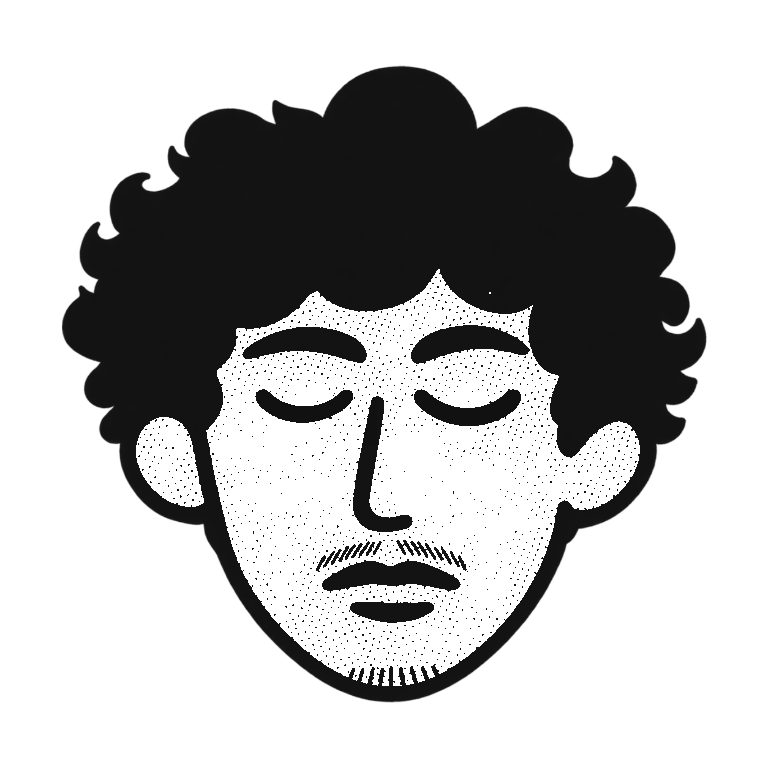
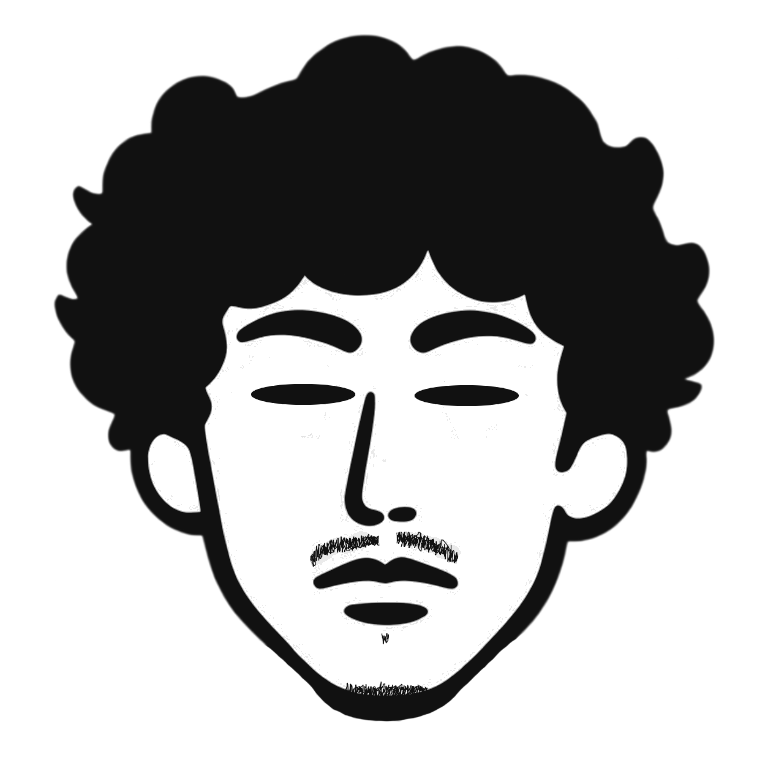
a

Changed region(s): [[0.125, 0.3125, 0.9375, 0.9375], [0.0625, 0.0312, 0.875, 0.5312]]

diff --git a/index.html b/index.html
@@ -4,13 +4,13 @@
     <meta charset="utf-8">
     <meta name="viewport" content="width=device-width, initial-scale=1">
     <title>Ramiro Borace | Portfolio</title>
-    <link rel="icon" type="image/svg+xml" href="assets/favicon.svg?v=monogram23-v2">
+    <link rel="icon" type="image/svg+xml" href="assets/favicon.svg?v=monogram23-v3">
     <link rel="preconnect" href="https://fonts.googleapis.com">
     <link rel="preconnect" href="https://fonts.gstatic.com" crossorigin>
     <link href="https://fonts.googleapis.com/css2?family=Inter+Tight:wght@400;500;600;700;800&display=swap" rel="stylesheet">
     <link rel="preload" href="assets/models/ramiro.glb" as="fetch" crossorigin="anonymous">
     <script id="model-viewer-library" type="module" src="https://ajax.googleapis.com/ajax/libs/model-viewer/4.0.0/model-viewer.min.js"></script>
-    <link rel="stylesheet" href="style.css?v=index-paper-aligned-v84">
+    <link rel="stylesheet" href="style.css?v=index-paper-aligned-v85">
   </head>
   <body>
     <header id="bar" class="site-header">
@@ -60,7 +60,7 @@
             <div class="hero-kicker">
               <span>Ramiro Borace</span>
             </div>
-            <h1 class="hero-wordmark" aria-label="Portfolio">Portf<span class="hero-notion" aria-hidden="true"><img class="hero-notion-open" src="assets/hero/yo-notion-open.png" alt=""><img class="hero-notion-blink" src="assets/hero/yo-notion-blink.png" alt=""></span>lio</h1>
+            <h1 class="hero-wordmark" aria-label="Portfolio">Portf<span class="hero-notion" aria-hidden="true"><img class="hero-notion-open" src="assets/hero/yo-notion-open.png?v=notion-new-1" alt=""><img class="hero-notion-blink" src="assets/hero/yo-notion-blink.png?v=notion-new-1" alt=""></span>lio</h1>
           </div>
         </div>
       </section>
@@ -119,7 +119,7 @@
               <div class="project-info">
                 <p class="project-type">2026</p>
                 <h3>Junio con Títeres<span class="project-category">Cobertura</span></h3>
-                <p class="project-role">Cámara</p>
+                <p class="project-role">Operador de cámara y editor</p>
                 <span class="project-link muted">No disponible</span>
                 <span class="project-number">03 / 07</span>
               </div>
@@ -137,7 +137,7 @@
               <div class="project-info">
                 <p class="project-type">2026</p>
                 <h3>Jellt Blues<span class="project-category">Cobertura</span></h3>
-                <p class="project-role">Cámara</p>
+                <p class="project-role">Operador de cámara y editor</p>
                 <span class="project-link muted">No disponible</span>
                 <span class="project-number">04 / 07</span>
               </div>
@@ -199,13 +199,15 @@
                   disable-tap
                   interaction-prompt="none"
                   camera-orbit="0deg 90deg 4.2m"
+                  min-camera-orbit="auto 90deg auto"
+                  max-camera-orbit="auto 90deg auto"
                   camera-target="0m -0.05m 0m"
                   field-of-view="30deg"
                   shadow-intensity="0.8"
                   exposure="1.1"
                   auto-rotate
-                  auto-rotate-delay="0"
-                  rotation-per-second="-8deg">
+                  rotation-per-second="16deg"
+                  auto-rotate-delay="0">
                 </model-viewer>
                 <div class="model-flash" aria-hidden="true"></div>
               </div>
@@ -315,10 +317,17 @@
       const reduceMotion = window.matchMedia("(prefers-reduced-motion: reduce)").matches;
       const modelViewerScript = document.querySelector("#model-viewer-library");
       const modelViewer = document.querySelector("#about-model-viewer");
-      const modelSlot = document.querySelector("#about-model");
       const modelStatus = document.querySelector("#model-status");
       let modelReady = false;
-      let modelVisible = false;
+      let modelPointerActive = false;
+      let modelInertiaActive = false;
+      let modelInertiaFrame = 0;
+      let modelResumeTimer = 0;
+      let modelPointerId = null;
+      let modelPointerLastX = 0;
+      let modelPointerLastTime = 0;
+      let modelPointerDistance = 0;
+      let modelPointerVelocityX = 0;
 
       function showModelError(error) {
         modelStatus.textContent = "No se pudo cargar el modelo 3D.";
@@ -327,9 +336,97 @@
       }
 
       function updateModelRotation() {
-        const shouldRotate = modelVisible && !reduceMotion && document.visibilityState === "visible";
+        const shouldRotate = !reduceMotion && !modelPointerActive && !modelInertiaActive
+          && document.visibilityState === "visible";
         modelViewer.toggleAttribute("auto-rotate", shouldRotate);
       }
+
+      function stopModelInertia() {
+        window.cancelAnimationFrame(modelInertiaFrame);
+        window.clearTimeout(modelResumeTimer);
+        modelInertiaActive = false;
+      }
+
+      function resumeModelRotation(delay = 0) {
+        window.clearTimeout(modelResumeTimer);
+        modelResumeTimer = window.setTimeout(updateModelRotation, delay);
+      }
+
+      function startModelInertia(angularVelocity) {
+        const { theta, phi, radius } = modelViewer.getCameraOrbit();
+        let currentTheta = theta;
+        let velocity = Math.max(-5, Math.min(5, angularVelocity));
+        let previousTime = performance.now();
+        modelInertiaActive = true;
+        updateModelRotation();
+
+        function advanceModelInertia(now) {
+          const elapsed = Math.min(now - previousTime, 50);
+          previousTime = now;
+          currentTheta += velocity * elapsed / 1000;
+          velocity *= Math.exp(-elapsed / 180);
+          modelViewer.cameraOrbit = `${currentTheta}rad ${phi}rad ${radius}m`;
+          modelViewer.jumpCameraToGoal();
+
+          if (Math.abs(velocity) > 0.12) {
+            modelInertiaFrame = window.requestAnimationFrame(advanceModelInertia);
+          } else {
+            modelInertiaActive = false;
+            resumeModelRotation();
+          }
+        }
+
+        modelInertiaFrame = window.requestAnimationFrame(advanceModelInertia);
+      }
+
+      function onModelPointerDown(event) {
+        if (!event.isPrimary || (event.pointerType === "mouse" && event.button !== 0)) return;
+        stopModelInertia();
+        modelPointerActive = true;
+        modelPointerId = event.pointerId;
+        modelPointerLastX = event.clientX;
+        modelPointerLastTime = event.timeStamp;
+        modelPointerDistance = 0;
+        modelPointerVelocityX = 0;
+        updateModelRotation();
+      }
+
+      function onModelPointerMove(event) {
+        if (!modelPointerActive || event.pointerId !== modelPointerId) return;
+        const elapsed = event.timeStamp - modelPointerLastTime;
+        const deltaX = event.clientX - modelPointerLastX;
+        if (elapsed > 0) {
+          const velocityX = deltaX / elapsed;
+          modelPointerVelocityX = modelPointerVelocityX * 0.4 + velocityX * 0.6;
+        }
+        modelPointerDistance += Math.abs(deltaX);
+        modelPointerLastX = event.clientX;
+        modelPointerLastTime = event.timeStamp;
+      }
+
+      function onModelPointerUp(event) {
+        if (!modelPointerActive || event.pointerId !== modelPointerId) return;
+        modelPointerActive = false;
+        modelPointerId = null;
+
+        const timeSinceMove = event.timeStamp - modelPointerLastTime;
+        const recentVelocity = timeSinceMove > 100
+          ? 0
+          : modelPointerVelocityX * Math.max(0, 1 - timeSinceMove / 120);
+        const angularVelocity = -recentVelocity * Math.PI
+          / Math.max(modelViewer.clientWidth, 1) * 1000;
+
+        if (!reduceMotion && modelPointerDistance > 6 && Math.abs(angularVelocity) > 0.25) {
+          startModelInertia(angularVelocity);
+        } else {
+          resumeModelRotation();
+        }
+      }
+
+      modelViewer.addEventListener("pointerdown", onModelPointerDown);
+      modelViewer.addEventListener("pointermove", onModelPointerMove);
+      modelViewer.addEventListener("pointerup", onModelPointerUp);
+      modelViewer.addEventListener("pointercancel", onModelPointerUp);
 
       document.addEventListener("visibilitychange", updateModelRotation);
       modelViewerScript.addEventListener("error", () => {
@@ -343,24 +440,6 @@
       }
       modelViewer.addEventListener("load", onModelLoad);
       if (modelViewer.loaded) onModelLoad();
-
-      if ("IntersectionObserver" in window) {
-        const modelVisibilityObserver = new IntersectionObserver(([entry]) => {
-          modelVisible = entry.isIntersecting && entry.intersectionRatio >= 0.1;
-          updateModelRotation();
-        }, { threshold: [0, 0.1] });
-        modelVisibilityObserver.observe(modelSlot);
-      } else {
-        const updateModelVisibility = () => {
-          const bounds = modelSlot.getBoundingClientRect();
-          modelVisible = bounds.bottom > 0 && bounds.top < window.innerHeight
-            && bounds.right > 0 && bounds.left < window.innerWidth;
-          updateModelRotation();
-        };
-        window.addEventListener("scroll", updateModelVisibility, { passive: true });
-        window.addEventListener("resize", updateModelVisibility);
-        updateModelVisibility();
-      }
 
       const bar = document.querySelector("#bar");
       const burger = document.querySelector("#burger");

diff --git a/style.css b/style.css
@@ -821,8 +821,13 @@ button {
   width: 100%;
   height: 100%;
   background: transparent;
-  pointer-events: none;
+  cursor: grab;
+  pointer-events: auto;
   --poster-color: transparent;
+}
+
+#about-model-viewer:active {
+  cursor: grabbing;
 }
 
 .model-flash {
